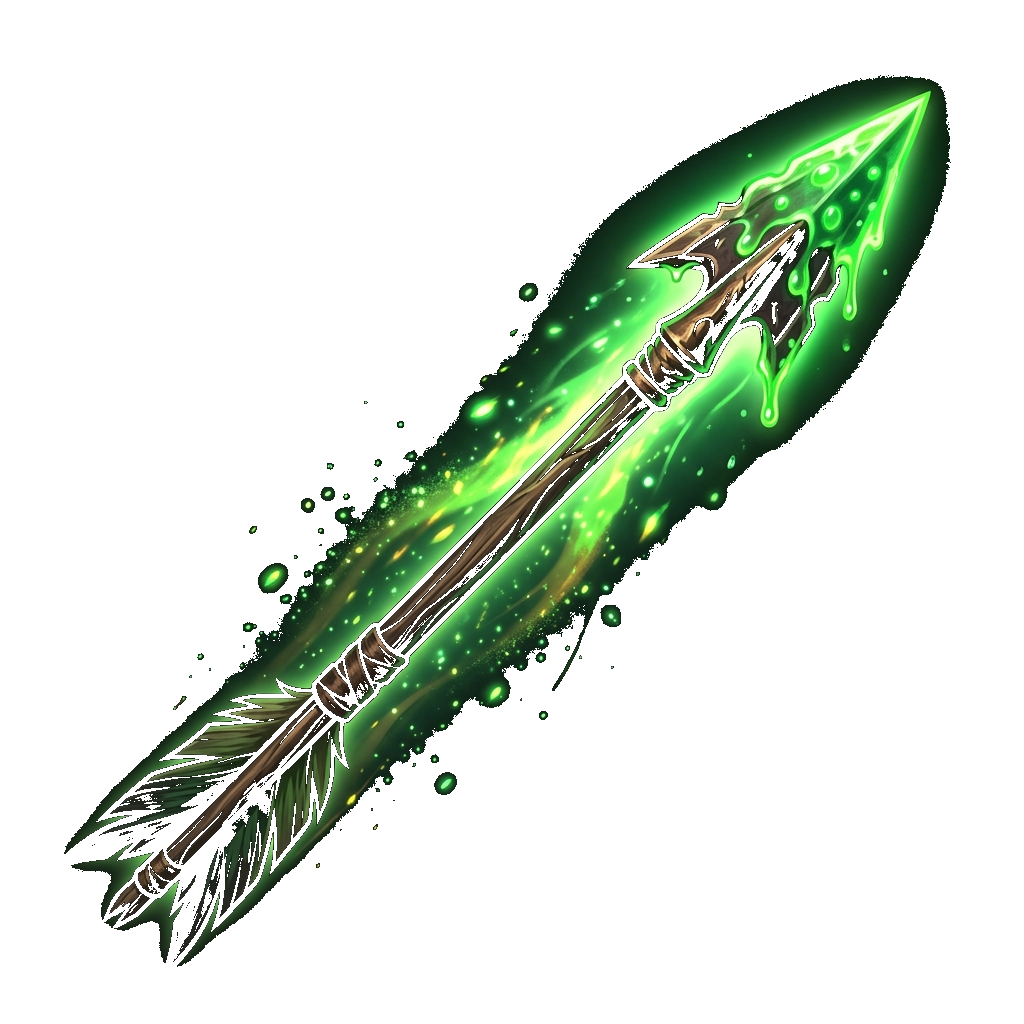
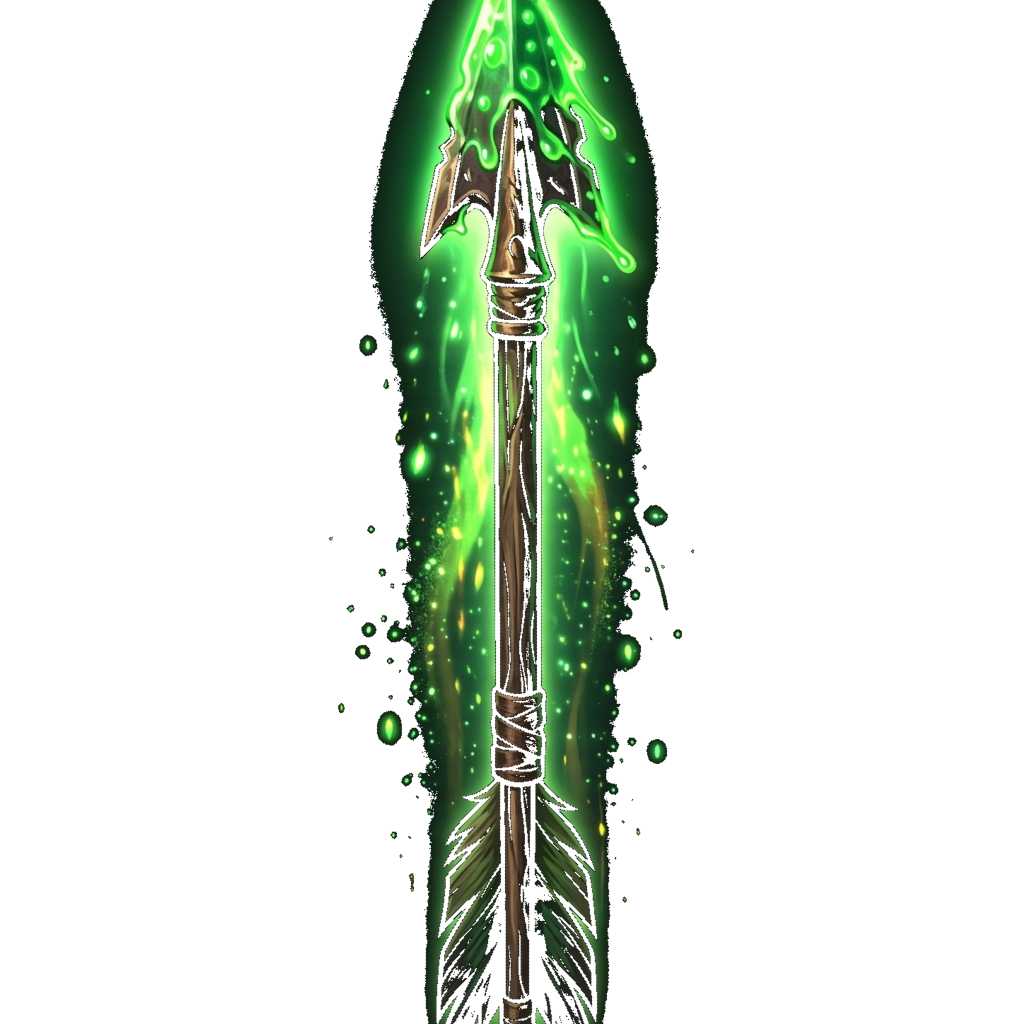
fix: bake rotation into projectile PNGs directly, remove code rotation offsets

diff --git a/src/scenes/GameScene.js b/src/scenes/GameScene.js
@@ -293,7 +293,6 @@ export class GameScene {
                 const webImg = enemyProjImages['spiderWeb'];
                 ctx.shadowColor = '#10b981';
                 ctx.shadowBlur = 10;
-                ctx.rotate(25 * Math.PI / 180); // fixed 25° orientation correction
                 if (webImg && (webImg.complete || webImg.width)) {
                     ctx.drawImage(webImg, -16, -16, 32, 32);
                 } else {
@@ -301,7 +300,7 @@ export class GameScene {
                     ctx.beginPath(); ctx.arc(0, 0, 12, 0, Math.PI * 2); ctx.fill();
                 }
             } else if (p.type === 'goblinArrow' || p.color === '#e67e22') {
-                const angle = Math.atan2(p.vy, p.vx) + (-45 * Math.PI / 180); // velocity dir + -45° sprite correction
+                const angle = Math.atan2(p.vy, p.vx);
                 ctx.rotate(angle);
                 const arrowImg = enemyProjImages['goblinArrow'];
                 if (arrowImg && (arrowImg.complete || arrowImg.width)) {
